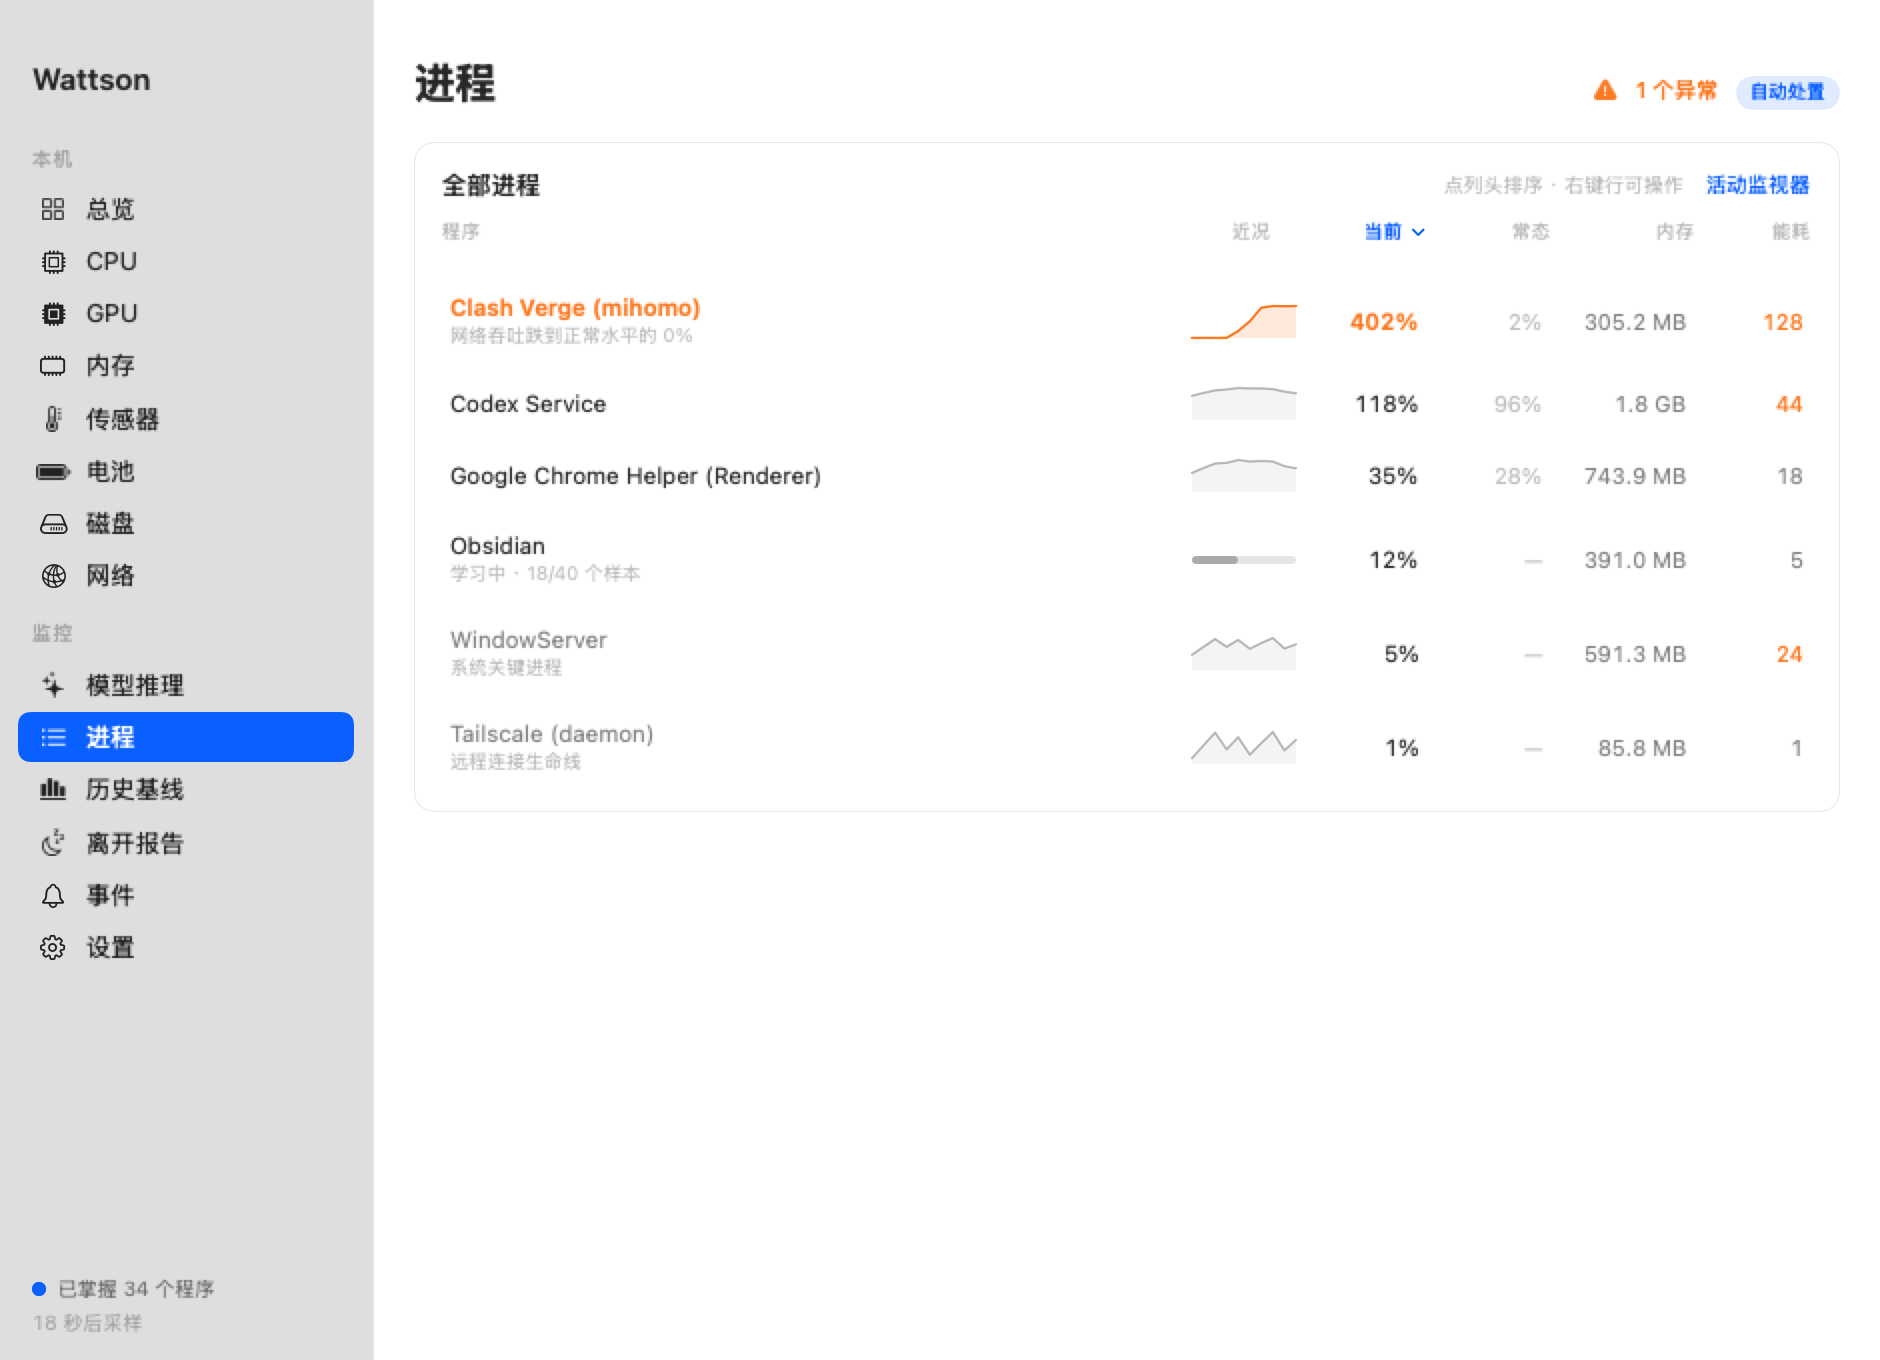
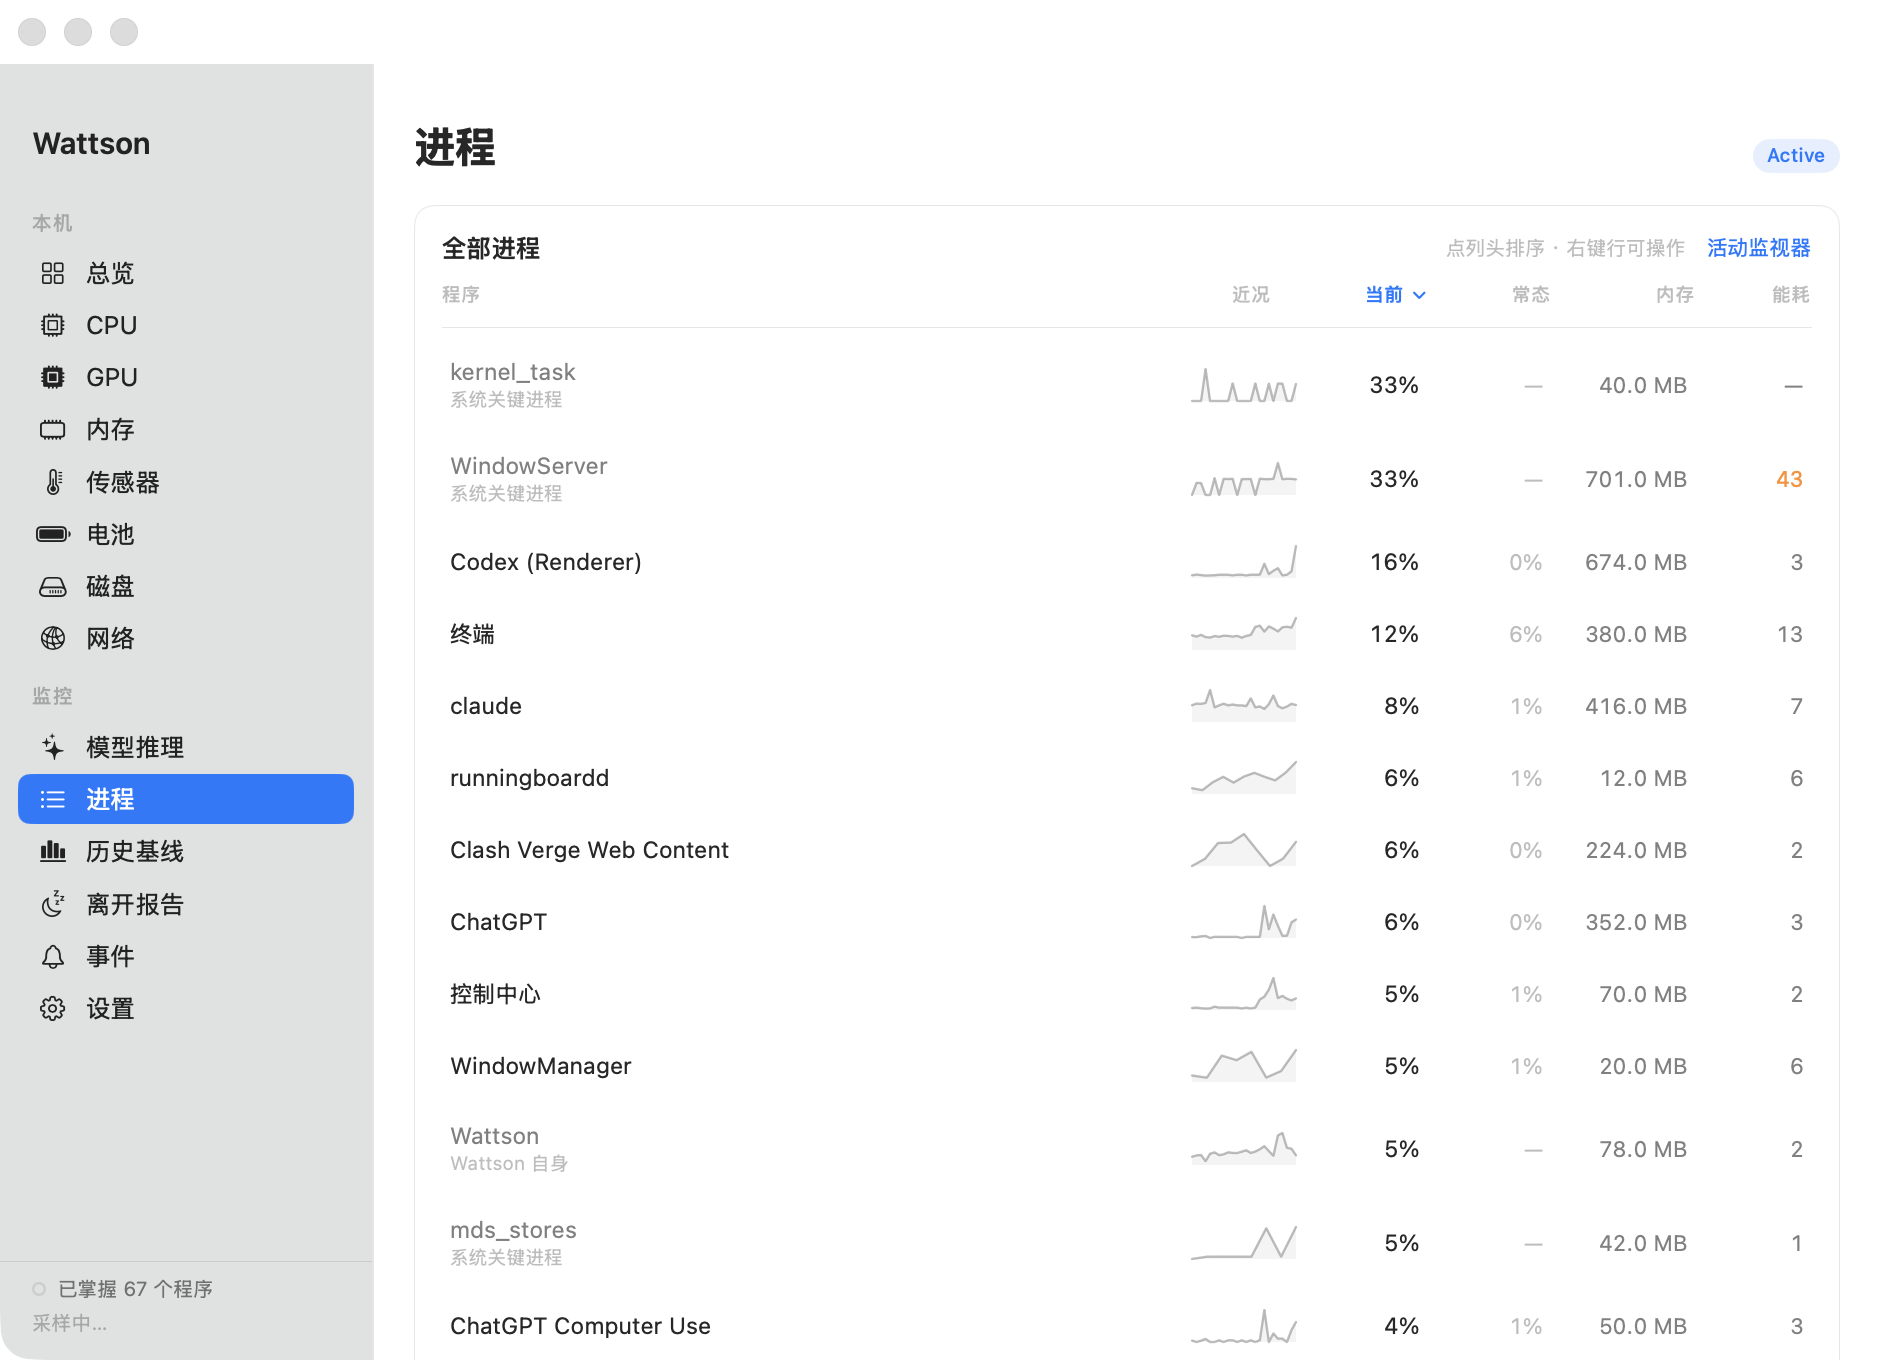
Replace the documentation images with captures of the running app
Every image in docs/ was rendered offscreen from a view tree that had never
been attached to a window, filled with invented numbers. That is how a window
that accepted no clicks at all went unnoticed for days: the screenshots looked
correct throughout.

These are captures of the real window with the engine running, so the readings
are this machine's own. The events page shows an actual detection — a
synthetic proxy that idled at 30% and then wedged at 100%, caught on the
collapse of its syscall rate.

Two centres a fraction of a percent apart both rendered as "30%", so the
reason line read "matches none of its usual states (30% / 30%)", which looks
like a defect rather than a program with two similar modes. Deduplicated.

diff --git a/Sources/wattson/Analysis/Verdict.swift b/Sources/wattson/Analysis/Verdict.swift
@@ -84,10 +84,16 @@ struct VerdictEngine {
         }
 
         if unusualCPU {
-            if usingModes, baseline.cpuModes.modes.count > 1 {
-                let states = baseline.cpuModes.modes
-                    .map { String(format: "%.0f%%", $0.center) }
-                    .joined(separator: " / ")
+            if usingModes, baseline.cpuModes.establishedModes.count > 1 {
+                // Two centres a fraction of a percent apart both render as
+                // "30%", and a list reading "30% / 30%" looks like a defect
+                // rather than a program with two similar modes.
+                var seen: [String] = []
+                for mode in baseline.cpuModes.establishedModes {
+                    let text = String(format: "%.0f%%", mode.center)
+                    if !seen.contains(text) { seen.append(text) }
+                }
+                let states = seen.joined(separator: " / ")
                 reasons.append(String(format: L("CPU %.0f%% — matches none of its usual states (%@)",
                                                 "CPU %.0f%% —— 不属于它已知的任何状态（%@）"),
                                       d.cpuPercent, states as NSString))

diff --git a/README.zh-CN.md b/README.zh-CN.md
@@ -286,7 +286,6 @@ wattson watch                  # 前台运行守护
 - **未做 Developer ID 签名及公证** — 预览版首次安装需要手动允许；这不妨碍小范围分发。
 - **回归验证** — `./scripts/test.sh` 运行独立 Swift 回归检查；`swift build && python3 scripts/smoke-test.py` 验证隔离引擎的单实例与 SIGTERM 保存。无需安装完整 Xcode。
 - **推理和能耗是估计** — GPU、swap、热压力主要是整机指标；Energy Impact 是相对指标，不是按任务计量的焦耳数，不能据此证明模型导致 OOM 或节省了多少电。
-- **截图可能来自较早版本** — 最新自动处置不会终止或重启进程。
 
 ---
 

diff --git a/README.md b/README.md
@@ -363,7 +363,6 @@ wattson watch                  # run the watchdog in the foreground
 - **No Developer ID signature or notarization** — downloaded previews need manual approval on first use.
 - **Regression checks** — `./scripts/test.sh`; then `swift build && python3 scripts/smoke-test.py` for isolated singleton and SIGTERM persistence checks. Full Xcode is not required.
 - **Inference and energy estimates** — GPU, swap, and thermal pressure are machine-wide signals. Energy Impact is a relative index, not measured task joules or proof that a model caused an OOM.
-- **Some screenshots show earlier behavior** — current automatic actions never terminate or restart processes.
 
 ---
 
